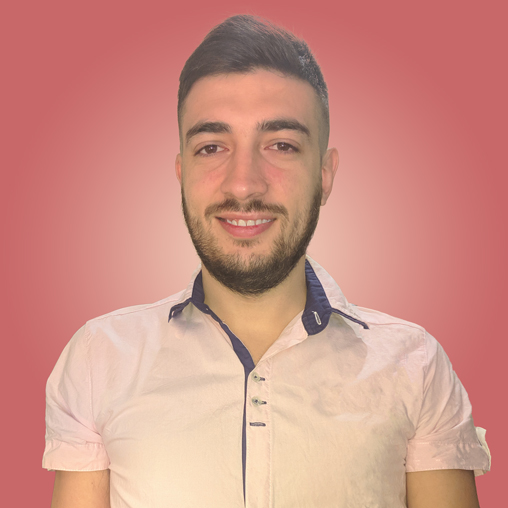
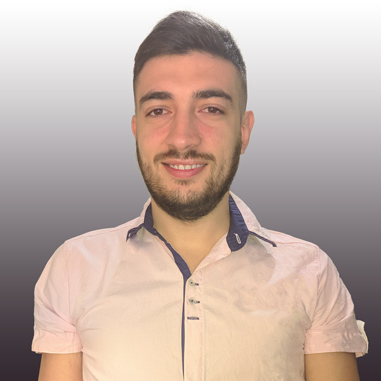
Se dan estilos visuales

diff --git a/index.html b/index.html
@@ -19,13 +19,13 @@
             <img src="./assets/Icons/APLogo-20-20.png" alt="Logo de Argentina programa" class="logoHeader">
             <ul>
                 <li><a href="https://api.whatsapp.com/send?phone=+543512367758&text=%C2%A1Hola%20Federico!%20Me%20gustar%C3%ADa%20ponerme%20en%20contacto%20para%20conocer%20m%C3%A1s%20sobre%20tu%20trabajo"
-                        target="_blank"><i class="fa-brands fa-whatsapp"></i> Whatsapp</a></li>
+                        target="_blank"><i class="fa-brands fa-whatsapp"></i><span> Whatsapp</span></a></li>
                 <li><a href="https://www.facebook.com/kempeess" target="_blank"><i class="fa-brands fa-facebook"></i>
-                        Facebook</a></li>
+                        <span>Facebook</span></a></li>
                 <li><a href="https://github.com/fedekrenn/" id="profile-link" target="_blank"><i
-                            class="fa-brands fa-github"></i> Github</a></li>
+                            class="fa-brands fa-github"></i><span> Github</span></a></li>
                 <li><a href="https://twitter.com/kempesss" target="_blank"><i class="fa-brands fa-twitter"></i>
-                        Twitter</a></li>
+                        <span>Twitter</span></a></li>
                 <li><i class="fa-solid fa-circle-user iconoLogueo"></i></li>
             </ul>
 
@@ -47,24 +47,24 @@
                 </div>
             </div>
             <div class="aboutMe">
-                <h3>Sobre mí</h3>
                 <div class="aboutMe__child">
+                    <h3>Sobre mí</h3>
                     <p>Lorem, ipsum dolor sit amet consectetur adipisicing elit. Itaque ipsam dignissimos sit eius
                         voluptatum assumenda suscipit qui vel laudantium, obcaecati quia ipsum esse excepturi rem sequi
                         veniam alias molestiae fuga, hic eum quis soluta eligendi similique in. Eveniet itaque, magnam
                         deleniti dolor fugiat maxime, earum voluptates ex harum inventore quibusdam! Consectetur porro
                         commodi ea culpa perferendis nemo sunt dolore placeat, nihil officia numquam sequi veniam
                         expedita.</p>
-                    <i class="fa-solid fa-pen"></i>
                 </div>
+                <i class="fa-solid fa-pen"></i>
             </div>
         </section>
-        <section class="experiencia">
-            <div class="experiencia__barraTitulo">
+        <section class="contenedor">
+            <div class="contenedor__barraTitulo">
                 <h2>Experiencia</h2>
                 <i class="fa-solid fa-plus"></i>
             </div>
-            <div class="experiencia__child">
+            <div class="contenedor__child">
                 <img src="./assets/images/experiencia/startek.png" alt="Empresa Startek">
                 <div class="descripcionPuesto">
                     <h3>Analista de calidad</h3>
@@ -83,12 +83,12 @@
             </div>
         </section>
 
-        <section class="experiencia">
-            <div class="experiencia__barraTitulo">
+        <section class="contenedor">
+            <div class="contenedor__barraTitulo">
                 <h2>Educación</h2>
                 <i class="fa-solid fa-plus"></i>
             </div>
-            <div class="experiencia__child">
+            <div class="contenedor__child">
                 <img src="./assets/Icons/APLogo-20-20.png" alt="Argentina programa">
                 <div class="descripcionPuesto">
                     <h3>Argentina Programa</h3>
@@ -101,7 +101,7 @@
                     <i class="fa-solid fa-trash"></i>
                 </div>
             </div>
-            <div class="experiencia__child">
+            <div class="contenedor__child">
                 <img src="./assets/Icons/coderhouse_logo.png" alt="Argentina programa">
                 <div class="descripcionPuesto">
                     <h3>Coderhouse</h3>
@@ -115,8 +115,8 @@
                 </div>
             </div>
         </section>
-        <section class="experiencia">
-            <div class="experiencia__barraTitulo">
+        <section class="contenedor">
+            <div class="contenedor__barraTitulo">
                 <h2>Hard y soft skills</h2>
                 <i class="fa-solid fa-plus"></i>
             </div>
@@ -153,27 +153,38 @@
                 </div>
             </div>
         </section>
-        <section class="experiencia">
-            <div class="experiencia__barraTitulo">
+        <section class="contenedor">
+            <div class="contenedor__barraTitulo">
                 <h2>Proyectos</h2>
                 <i class="fa-solid fa-plus"></i>
             </div>
-            <div class="experiencia__child">
+            <div class="contenedor__child">
                 <img src="./assets/images/proyectos/cocinando-facil.JPG" alt="Cocinando fácil, web de recetas">
                 <div class="descripcionPuesto">
-                    <h3><a href="https://fedekrenn.github.io/proyectoJS/">Cocinando Fácil | Web para gestión de recetas y obtener ideas</a></h3>
-                    <p>Proyecto final de cursada Javascript en Coderhouse. El mismo es un simulador de cocina que permite cargar recetas, compararlas, filtrar por comidas rápidas y aquellas que son aptas para veganos. Además cuenta con conexión a una API que permite ingresar un ingrediente y la web automáticamente te devuelve recetas que podés cocinar con dicho ingrediente. Como añadido tiene función modo oscuro. Las recetas guardadas son almacenadas en el localStorage para tenerlas disponibles en una próxima sesión de navegación. Tecnologías utilizadas: Html, Css, Javascript. </p>
+                    <h3><a href="https://fedekrenn.github.io/proyectoJS/" target="_blank">Cocinando Fácil | Web para
+                            gestión de recetas y obtener ideas</a></h3>
+                    <p>Proyecto final de cursada Javascript en Coderhouse. El mismo es un simulador de cocina que
+                        permite cargar recetas, compararlas, filtrar por comidas rápidas y aquellas que son aptas para
+                        veganos. Además cuenta con conexión a una API que permite ingresar un ingrediente y la web
+                        automáticamente te devuelve recetas que podés cocinar con dicho ingrediente. Como añadido tiene
+                        función modo oscuro. Las recetas guardadas son almacenadas en el localStorage para tenerlas
+                        disponibles en una próxima sesión de navegación. Tecnologías utilizadas: Html, Css, Javascript.
+                    </p>
                 </div>
                 <div class="iconosEdicion">
                     <i class="fa-solid fa-pen"></i>
                     <i class="fa-solid fa-trash"></i>
                 </div>
             </div>
-            <div class="experiencia__child">
+            <div class="contenedor__child">
                 <img src="./assets/images/proyectos/sereno-bienestar.JPG" alt="Sereno Bienestar logo">
                 <div class="descripcionPuesto">
-                    <h3><a href="https://fedekrenn.github.io/serenoBienestar/">Sereno Bienestar - Un lugar para encontrarte contigo mismo</a></h3>
-                    <p>Proyecto final de cursada de Desarrollo Web en Coderhouse. Es una web de 5 páginas maquetada con flexbox en mayor medida y grid. Además se usa framework de bootstrap e incluye el pre-procesador de Sass. Cuenta con librería de animaciones y está optimizada para SEO y a la vez es responsive, se puede visualizar cómodamente el contenido tanto en mobile, tablets o desktop.</p>
+                    <h3><a href="https://fedekrenn.github.io/serenoBienestar/" target="_blank">Sereno Bienestar | Un
+                            lugar para encontrarte contigo mismo</a></h3>
+                    <p>Proyecto final de cursada de Desarrollo Web en Coderhouse. Es una web de 5 páginas maquetada con
+                        flexbox en mayor medida y grid. Además se usa framework de bootstrap e incluye el pre-procesador
+                        de Sass. Cuenta con librería de animaciones y está optimizada para SEO y a la vez es responsive,
+                        se puede visualizar cómodamente el contenido tanto en mobile, tablets o desktop.</p>
                 </div>
                 <div class="iconosEdicion">
                     <i class="fa-solid fa-pen"></i>

diff --git a/css/style.css b/css/style.css
@@ -8,7 +8,8 @@
 }
 
 body {
-  background-color: rgb(241, 232, 232);
+  background: rgb(243,254,245);
+  background: linear-gradient(90deg, rgba(243,254,245,1) 0%, rgba(230,230,242,1) 26%, rgba(243,254,245,1) 100%);
 }
 
 h1,
@@ -22,12 +23,17 @@ h1 {
 }
 
 h2 {
-  color: brown;
+  color: #a52a2a;
 }
 
 a {
   text-decoration: none;
   color: inherit;
+  transition: .5s;
+}
+
+main a:hover{
+  color: brown;
 }
 
 img {
@@ -37,7 +43,7 @@ img {
 /* Header */
 
 header {
-  height: 100vh;
+  min-height: 100vh;
   background-image: url(../assets/images/header-background.jpg);
   background-size: cover;
 }
@@ -62,10 +68,17 @@ ul {
 ul li {
   list-style-type: none;
   margin: 10px;
+  transition: .4s;
+}
+
+ul li:hover{
+  transform: scale(1.2);
 }
 
 .welcome {
-  margin-top: 10vh;
+  width: 40%;
+  text-align: center;
+  margin: 0 auto;
   position: relative;
   top: 200px;
   background-color: rgba(0, 0, 0, 0.8);
@@ -75,6 +88,7 @@ ul li {
 
 i {
   font-size: 1em;
+  transition: .4s;
 }
 
 i.iconoLogueo {
@@ -82,10 +96,9 @@ i.iconoLogueo {
   margin: 0 10px;
 }
 
-.welcome {
-  width: 40%;
-  margin: 0 auto;
-  text-align: center;
+main i:hover{
+  color: brown;
+  transform: scale(1.2);
 }
 
 /* Acerca de mí */
@@ -97,7 +110,6 @@ i.iconoLogueo {
 .fotoPerfil {
   width: 200px;
   border-radius: 50%;
-  border: 3px solid brown;
   position: absolute;
   top: -200px;
   left: 20px;
@@ -109,11 +121,10 @@ i.iconoLogueo {
 
 .aboutMe {
   margin: 50px 20px;
-}
-
-.aboutMe__child {
   display: flex;
 }
+
+
 
 .location {
   font-size: .9em;
@@ -122,28 +133,28 @@ i.iconoLogueo {
 
 /* Experiencia */
 
-.experiencia {
+.contenedor {
   margin: 20px;
   padding: 20px;
-  border: 2px solid brown;
+  border: 2px solid black;
   border-radius: 20px;
-  background-color: white;
+  background-color: #ffffff80;
   box-shadow: 10px 10px 21px 0px rgba(0, 0, 0, 0.75);
 }
 
-.experiencia__barraTitulo {
+.contenedor__barraTitulo {
   display: flex;
   justify-content: space-between;
   align-items: center;
   margin: 10px 0;
 }
 
-.experiencia__child {
+.contenedor__child {
   display: flex;
   margin: 30px 0;
 }
 
-.experiencia img {
+.contenedor img {
   width: 100px;
   object-fit: contain;
   max-height: 100px;
@@ -153,7 +164,7 @@ i.iconoLogueo {
   margin: 0 20px;
 }
 
-.descripcionPuesto__info{
+.descripcionPuesto__info {
   display: inline;
   margin-right: 20px;
 }
@@ -166,12 +177,13 @@ i.iconoLogueo {
 
 .iconosEdicion i {
   margin: 10px 5px;
+  align-self: flex-start;
 }
 
 
 /* Skills */
 
-.skills{
+.skills {
   margin: 30px 0;
 }
 
@@ -205,4 +217,68 @@ i.iconoLogueo {
   background-color: #f44336;
 }
 
+/* Responsive */
 
+@media (max-width: 750px) {
+
+  .fotoPerfil{
+    width: 150px;
+    top: -175px;
+  }
+
+  nav ul li a span{
+    display: none;
+  }
+
+  .welcome{
+    width: 60%;
+    font-size: .5em;
+  }
+
+  .aboutMe__child p{
+    text-align: justify;
+  }
+
+  .contenedor__child{
+    flex-direction: column;
+    align-items: center
+  }
+
+  .contenedor__child img{
+    width: 150px;
+    margin: 20px;
+  }
+
+  .iconosEdicion{
+    margin-top: 10px;
+  }
+}
+
+@media (max-width: 450px){
+  header{
+    min-height: 70vh;
+  }
+
+  .welcome{
+    top: 125px;
+  }
+  
+  .fotoPerfil{
+    width: 100px;
+    top: -150px;
+  }
+  
+  .logoHeader{
+    display: none;
+  }
+
+  nav{
+    justify-content: center;
+  }
+
+  .iconoLogueo{
+    position: absolute;
+    top: 15px;
+    right: 10px;
+  }
+}
